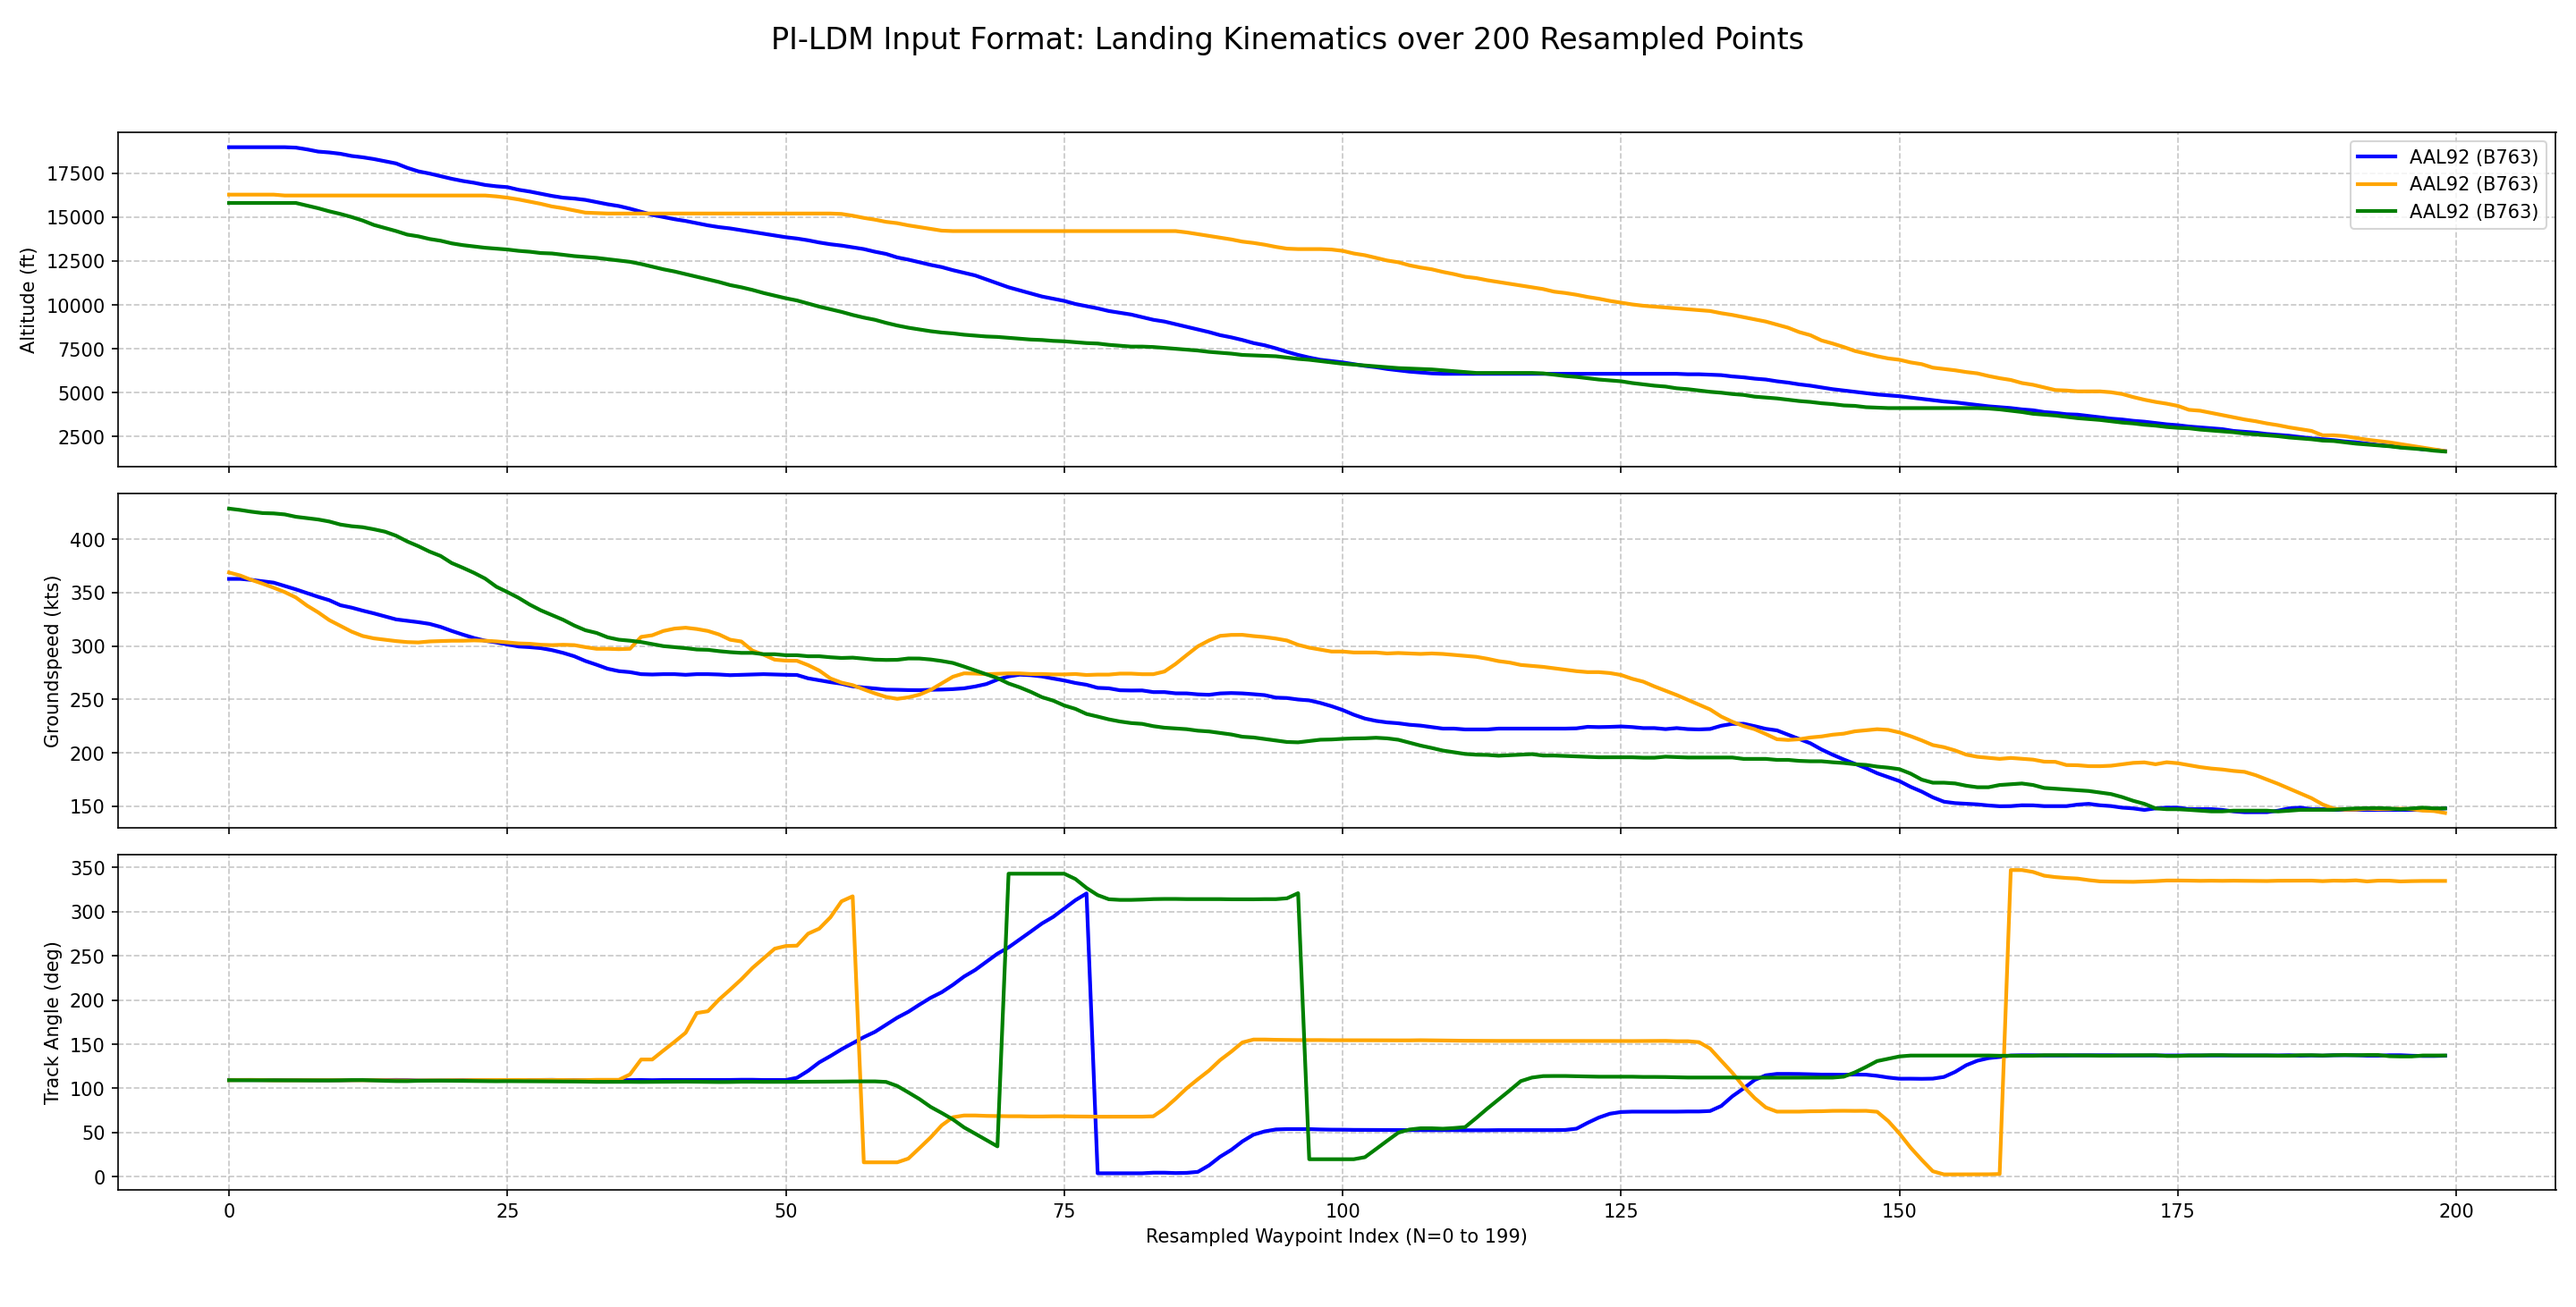
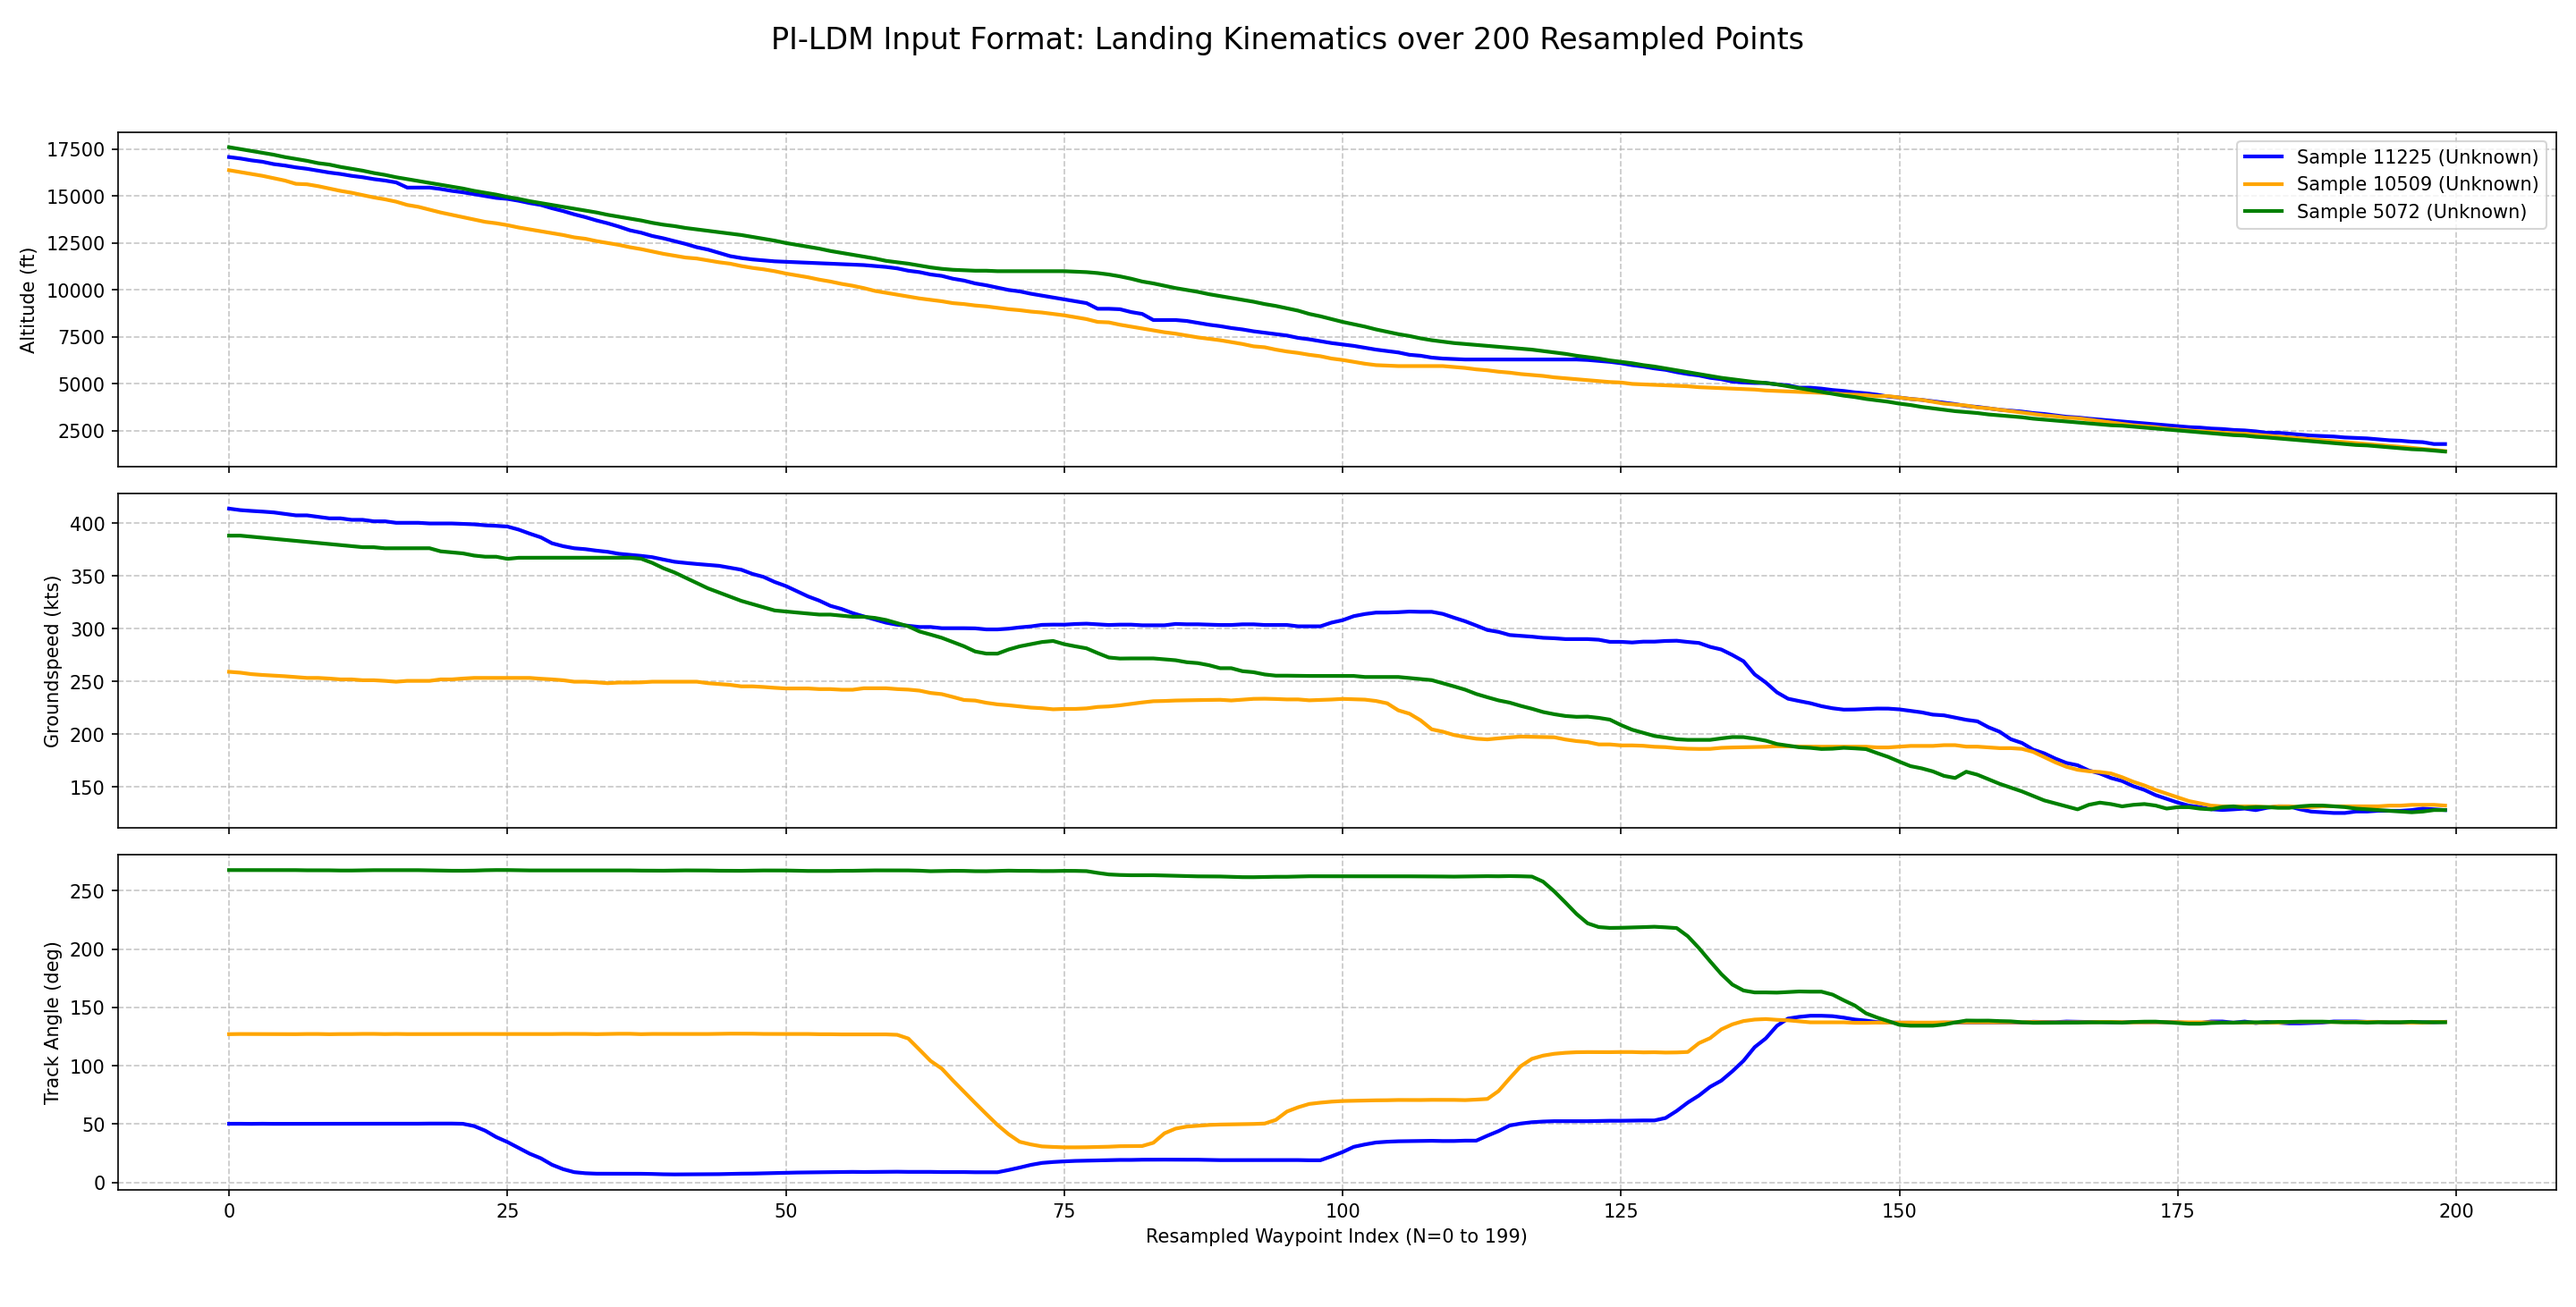
feat: create csv with dataset_builder

diff --git a/scripts/dataset_builder.py b/scripts/dataset_builder.py
@@ -17,6 +17,7 @@ from sklearn.model_selection import train_test_split
 from tqdm import tqdm
 
 warnings.filterwarnings("ignore", category=FutureWarning)
+warnings.filterwarnings("ignore", category=RuntimeWarning)
 
 
 class DatasetBuilder:
@@ -68,8 +69,9 @@ class DatasetBuilder:
         return runways
 
     def build_tensor(self, flight_list):
-        """Converts a list of flight dataframes into a (N, features, seq_len) numpy array."""
+        """Converts a list of flight dataframes into a (N, features, seq_len) numpy array and extracts metadata."""
         processed_flights = []
+        metadata_records = []
         for df in tqdm(flight_list, desc="Building sequence tensors"):
             resampled = self.resample_flight(df)
             timed = self.compute_elapsed_time(resampled)
@@ -82,7 +84,19 @@ class DatasetBuilder:
             tensor_slice = timed[self.features].to_numpy(dtype=np.float32).T
             processed_flights.append(tensor_slice)
             
-        return np.stack(processed_flights) if processed_flights else np.array([])
+            # Extract metadata for this flight
+            meta = {
+                'callsign': df['callsign'].iloc[0] if 'callsign' in df.columns else 'Unknown',
+                'typecode': df['typecode'].iloc[0] if 'typecode' in df.columns else 'Unknown',
+                'icao24': df['icao24'].iloc[0] if 'icao24' in df.columns else 'Unknown'
+            }
+            if 'flight_id' in df.columns:
+                meta['flight_id'] = df['flight_id'].iloc[0]
+            metadata_records.append(meta)
+            
+        tensor_array = np.stack(processed_flights) if processed_flights else np.array([])
+        meta_df = pd.DataFrame(metadata_records)
+        return tensor_array, meta_df
 
 
 if __name__ == '__main__':
@@ -99,16 +113,19 @@ if __name__ == '__main__':
     
     if '14' in runways:
         print(f"Building kinematic tensor for {len(runways['14'])} flights on Runway 14.")
-        tensor_rwy14 = builder.build_tensor(runways['14'])
+        tensor_rwy14, meta_rwy14 = builder.build_tensor(runways['14'])
         
         # Determine output directory
         base_dir = os.path.dirname(os.path.dirname(os.path.abspath(__file__)))
         processed_dir = os.path.join(base_dir, 'data', 'processed')
         os.makedirs(processed_dir, exist_ok=True)
         
-        # Save array with a descriptive name
+        # Save array and CSV
         output_base = "LSZH_2019_R14_kinematic_200pts"
-        output_name = os.path.join(processed_dir, f"{output_base}.npy")
+        output_name_npy = os.path.join(processed_dir, f"{output_base}.npy")
+        output_name_csv = os.path.join(processed_dir, f"{output_base}.csv")
         
-        np.save(output_name, tensor_rwy14)
-        print(f"Saved {output_name} with shape: {tensor_rwy14.shape}")
+        np.save(output_name_npy, tensor_rwy14)
+        meta_rwy14.to_csv(output_name_csv, index=False)
+        print(f"Saved {output_name_npy} with shape: {tensor_rwy14.shape}")
+        print(f"Saved {output_name_csv} with metadata for {len(meta_rwy14)} flights")

diff --git a/scripts/plot_npy.py b/scripts/plot_npy.py
@@ -7,12 +7,15 @@ import matplotlib.pyplot as plt
 def visualize_trajectories(X_filepath, meta_filepath, num_samples=3):
     # Load the tensors and metadata
     try:
-        X = np.load(X_filepath)
-        meta = pd.read_csv(meta_filepath)
+        X = np.load(X_filepath, allow_pickle=True).astype(np.float32)
         print(f"Loaded tensor of shape: {X.shape}")
     except FileNotFoundError:
-        print(f"Could not find the data files at: {X_filepath} or {meta_filepath}")
+        print(f"Could not find the numpy data file at: {X_filepath}")
         return
+        
+    meta = None
+    if os.path.exists(meta_filepath):
+        meta = pd.read_csv(meta_filepath)
 
     print("Press 'n' in the plot window to see a new set of random trajectories.")
     
@@ -38,8 +41,8 @@ def visualize_trajectories(X_filepath, meta_filepath, num_samples=3):
             altitude = X[idx, 2, :]
             x_axis = np.arange(200)
             
-            callsign = meta.iloc[idx]['callsign'] if 'callsign' in meta.columns else f"Sample {idx}"
-            ac_type = meta.iloc[idx]['typecode'] if 'typecode' in meta.columns else "Unknown"
+            callsign = meta.iloc[idx]['callsign'] if meta is not None and 'callsign' in meta.columns else f"Sample {idx}"
+            ac_type = meta.iloc[idx]['typecode'] if meta is not None and 'typecode' in meta.columns else "Unknown"
             label = f"{callsign} ({ac_type})"
             
             # Subplot 0: Altitude Profile
@@ -83,7 +86,7 @@ def visualize_trajectories(X_filepath, meta_filepath, num_samples=3):
 if __name__ == "__main__":
     # --- CONFIGURATION AREA ---
     # The base name used in filter_data.py (without extension)
-    FILE_BASE = "X_LSZH_2019_benchmark_runway142"
+    FILE_BASE = "LSZH_2019_R14_kinematic_200pts"
     #FILE_BASE = "sample_trajectory_denoised"
     # --------------------------
 
